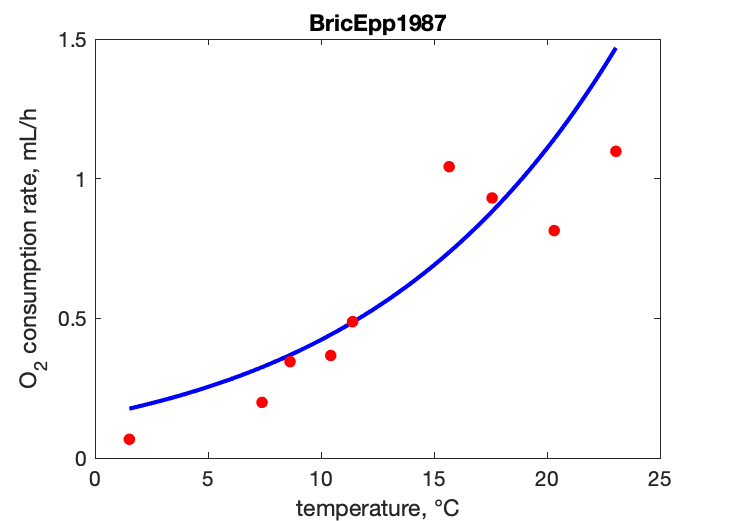
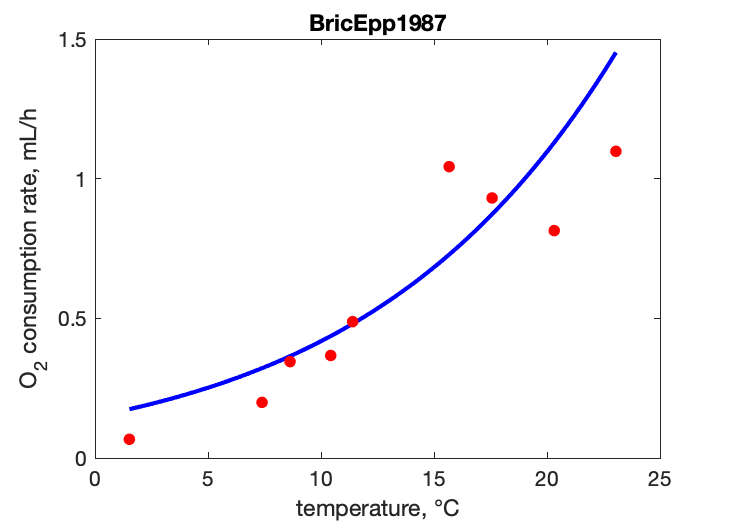
added dry weight O2 consumption

diff --git a/Argopecten_irradians/Argopecten_irradians_res.html b/Argopecten_irradians/Argopecten_irradians_res.html
@@ -44,7 +44,7 @@
   </div>
 
   <div class="par">
-  <h4>COMPLETE = 2.5; MRE = 1901.084; SMSE =    0.760 </h4>
+  <h4>COMPLETE = 2.5; MRE = 2308.032; SMSE =    0.736 </h4>
   </div>
 
   <p class="clear"></p>
@@ -66,10 +66,9 @@
     <TR><TD>1.6</TD> <TD>0.0185</TD> <TD>0.9884</TD> <TD>Wdp</TD> <TD>g</TD> <TD>dry tissue weight at puberty</TD></TR>
     <TR><TD>5.3</TD> <TD>23.62</TD> <TD>3.456</TD> <TD>Wdi</TD> <TD>g</TD> <TD>ultimate dry tissue weight</TD></TR>
     <TR><TD>2094</TD> <TD>6.763e+07</TD> <TD>3.229e+04</TD> <TD>Ri</TD> <TD>#/d</TD> <TD>maximum reprod rate</TD></TR>
-    <TR><TD colspan="2">see figure</TD> <TD>1.362</TD> <TD>tL1</TD> <TD colspan="2">time since birth, <font color="blue"><i>vs.</i></font> Shell height</TD>
-    <TR><TD colspan="2">see figure</TD> <TD>2.345</TD> <TD>tL2</TD> <TD colspan="2">time since birth, <font color="blue"><i>vs.</i></font> Shell height</TD>
-    <TR><TD colspan="2">see figure</TD> <TD>4.977</TD> <TD>tL3</TD> <TD colspan="2">time since birth, <font color="blue"><i>vs.</i></font> Shell height</TD>
-    <TR><TD colspan="2">see figure</TD> <TD>0.2597</TD> <TD>TJO</TD> <TD colspan="2">temperature, <font color="blue"><i>vs.</i></font> O_2 consumption rate</TD>
+    <TR><TD colspan="2">see figure</TD> <TD>2.384</TD> <TD>tL1</TD> <TD colspan="2">time since start of study, <font color="blue"><i>vs.</i></font> Shell height</TD>
+    <TR><TD colspan="2">see figure</TD> <TD>2.291</TD> <TD>tL2</TD> <TD colspan="2">Time since birth, <font color="blue"><i>vs.</i></font> Shell height</TD>
+    <TR><TD colspan="2">see figure</TD> <TD>0.2558</TD> <TD>TJO</TD> <TD colspan="2">temperature, <font color="blue"><i>vs.</i></font> O_2 consumption rate</TD>
     <TR class="psd"><TD>0.02</TD> <TD>0.03876</TD> <TD>0.938</TD> <TD>psd.v</TD> <TD>cm/d</TD> <TD>energy conductance</TD></TR>
     <TR class="psd"><TD>0.8</TD> <TD>0.8</TD> <TD>  0</TD> <TD>psd.kap</TD> <TD>-</TD> <TD>allocation fraction to soma</TD></TR>
     <TR class="psd"><TD>0.95</TD> <TD>0.95</TD> <TD>  0</TD> <TD>psd.kap_R</TD> <TD>-</TD> <TD>reproduction efficiency</TD></TR>
@@ -103,13 +102,13 @@
     <TR><TD>T_A</TD> <TD>K</TD> <TD>8000</TD> <TD>0</TD> <TD>Arrhenius temperature</TD></TR>
     <TR><TD>del_M</TD> <TD>-</TD> <TD>0.1696</TD> <TD>1</TD> <TD>shape coefficient</TD></TR>
     <TR><TD>Wd0</TD> <TD>g</TD> <TD>  1</TD> <TD>0</TD> <TD>dry weight for TJO data</TD></TR>
-    <TR><TD>Lw_0</TD> <TD>cm</TD> <TD>1.258</TD> <TD>0</TD> <TD>initial shell height for tL1 and tL2 data</TD></TR>
+    <TR><TD>Lw_0_tL1</TD> <TD>cm</TD> <TD>1.44</TD> <TD>0</TD> <TD>initial shell height for tL1 and tL2 data</TD></TR>
+    <TR><TD>Lw_0_tL2</TD> <TD>cm</TD> <TD>1.04</TD> <TD>0</TD> <TD>initial shell height for tL1 and tL2 data</TD></TR>
     <TR><TD>f</TD> <TD>-</TD> <TD>  1</TD> <TD>0</TD> <TD>scaled functional response for 0-var data</TD></TR>
     <TR><TD>del_Mb</TD> <TD>-</TD> <TD>0.2626</TD> <TD>1</TD> <TD>shape coefficient before metamorphosis</TD></TR>
-    <TR><TD>f_tL1</TD> <TD>-</TD> <TD>0.4</TD> <TD>1</TD> <TD>scaled functional response for upper river DRE</TD></TR>
-    <TR><TD>f_tL2</TD> <TD>-</TD> <TD>0.6</TD> <TD>1</TD> <TD>scaled functional response for lower river DRE</TD></TR>
-    <TR><TD>f_tL3</TD> <TD>-</TD> <TD>0.6</TD> <TD>1</TD> <TD>scaled functional response for Tampa Bay</TD></TR>
-    <TR><TD>f_TJO</TD> <TD>-</TD> <TD>0.6</TD> <TD>1</TD> <TD>scaled functional response for TJO</TD></TR>
+    <TR><TD>f_tL1</TD> <TD>-</TD> <TD>0.5</TD> <TD>1</TD> <TD>scaled functional response for Virginia</TD></TR>
+    <TR><TD>f_tL2</TD> <TD>-</TD> <TD>0.5</TD> <TD>1</TD> <TD>scaled functional response for Florida</TD></TR>
+    <TR><TD>f_TJO</TD> <TD>-</TD> <TD>0.5</TD> <TD>1</TD> <TD>scaled functional response for Florida</TD></TR>
   </TABLE>
   </div>
 

diff --git a/Argopecten_irradians/predict_Argopecten_irradians.m b/Argopecten_irradians/predict_Argopecten_irradians.m
@@ -8,20 +8,7 @@ function [prdData, info] = predict_Argopecten_irradians(par, data, auxData)
   
   %% Syntax
   % [prdData, info] = <../predict_my_pet.m *predict_my_pet*>(par, data, auxData)
-  
-  %% Description
-  % Obtains predictions, using parameters and data
-  %
-  % Input
-  %
-  % * par: structure with parameters (see below)
-  % * data: structure with data (not all elements are used)
-  % * auxData : structure with temp data and other potential environmental data
-  %  
-  % Output
-  %
-  % * prdData: structure with predicted values for data
-  % * info: identified for correct setting of predictions (see remarks)
+
   
   %% Remarks
   % Template for use in add_my_pet.
@@ -36,11 +23,10 @@ function [prdData, info] = predict_Argopecten_irradians(par, data, auxData)
   cPar = parscomp_st(par); vars_pull(par); 
   vars_pull(cPar);  vars_pull(data);  vars_pull(auxData);
     
-filterChecks = ... % f contrained to not be larger than 1 or negeative
-                 f_TJO>1 || f_TJO < 0 || ... ; 
+  filterChecks = ... % f contrained to not be larger than 1 or negeative
                  f_tL1>1 || f_tL1 < 0 || ... ;
                  f_tL2>1 || f_tL2 < 0 || ... ;
-                 f_tL3 >1 || f_tL3 < 0;
+                 f_TJO >1 || f_TJO < 0;
    
 if filterChecks
    info    = 0;
@@ -55,111 +41,85 @@ end
   TC_ap  = tempcorr(temp.ap, T_ref, T_A);
   TC_am  = tempcorr(temp.am, T_ref, T_A);
   TC_Ri  = tempcorr(temp.Ri, T_ref, T_A);
-  TC_tL1 = tempcorr(temp.tL3, T_ref, T_A);
-  TC_tL2 = tempcorr(temp.tL3, T_ref, T_A);
-  TC_tL3 = tempcorr(temp.tL3, T_ref, T_A);
-  TC_TJO = tempcorr(C2K(TJO(:,1)), T_ref, T_A);
-  % TC_WJO = tempcorr(temp.WJO, T_ref, T_A);
+  TC_tL1 = tempcorr(temp.tL1, T_ref, T_A);
+  TC_tL2 = tempcorr(temp.tL2, T_ref, T_A);
+  TC_TJO   = tempcorr(C2K(TJO(:,1)), T_ref, T_A);
+  TC_WJO   = tempcorr(temp.WJO, T_ref, T_A);
+
 
 %% Zero-variate data
 
-% Life cycle - from Placopecten magellanicus code
- pars_tj = [g k l_T v_Hb v_Hj v_Hp];
- [t_j, t_p, t_b, l_j, l_p, l_b, l_i, ~, ~, info] = get_tj(pars_tj, f); % -, scaled times & lengths at f
+  % life cycle
+  pars_tj = [g k l_T v_Hb v_Hj v_Hp];
+  [t_j, t_p, t_b, l_j, l_p, l_b, l_i, rho_j, rho_B, info] = get_tj(pars_tj, f);
 
- % Birth
-L_b  = L_m * l_b;                 % cm, structural length at birth at f
-Lw_b = L_b / del_Mb;             % cm, physical length at birth at f
-Wd_b = L_b^3 * d_V * (1 + f * w); % g,  dry weight at birth at f (remove d_V for wet weight)
-aT_b = t_b / k_M / TC_ab;         % d,  age at birth at f and T
+  % Birth
+  L_b  = L_m * l_b;                 % cm, structural length at birth at f
+  Lw_b = L_b / del_Mb;             % cm, physical length at birth at f
+  Wd_b = L_b^3 * d_V * (1 + f * w); % g,  dry weight at birth at f (remove d_V for wet weight)
+  aT_b = t_b / k_M / TC_ab;         % d,  age at birth at f and T
 
- % Metamorphosis
-L_j  = L_m * l_j;                 % cm, structural length at metamorphosis at f
-Lw_j = L_j / del_Mb;             % cm, physical length at metamorphosis at f
-Wd_j = L_j^3 * d_V * (1 + f * w); % g,  dry weight at metamorphosis at f (remove d_V for wet weight)
-aT_j = t_j / k_M / TC_aj;         % d,  age at metamorphosis at f and T
+  % Metamorphosis
+  L_j  = L_m * l_j;                 % cm, structural length at metamorphosis at f
+  Lw_j = L_j / del_Mb;             % cm, physical length at metamorphosis at f
+  Wd_j = L_j^3 * d_V * (1 + f * w); % g,  dry weight at metamorphosis at f (remove d_V for wet weight)
+  aT_j = t_j / k_M / TC_aj;         % d,  age at metamorphosis at f and T
 
- % Puberty
-L_p  = L_m * l_p;                 % cm, structural length at puberty at f
-Lw_p = L_p / del_M;               % cm, physical length at puberty at f
-Wd_p = L_p^3 * d_V * (1 + f * w); % g,  dry weight at puberty (remove d_V for wet weight)
-aT_p = t_p / k_M / TC_ap;         % d,  age at puberty at f and T
+  % Puberty
+  L_p  = L_m * l_p;                 % cm, structural length at puberty at f
+  Lw_p = L_p / del_M;               % cm, physical length at puberty at f
+  Wd_p = L_p^3 * d_V * (1 + f * w); % g,  dry weight at puberty (remove d_V for wet weight)
+  aT_p = t_p / k_M / TC_ap;         % d,  age at puberty at f and T
 
- % Ultimate
-L_i  = L_m * l_i;                 % cm, ultimate structural length at f
-Lw_i = L_i / del_M;               % cm, ultimate physical length at f
-Wd_i = L_i^3 * d_V * (1 + f * w); % g,  ultimate dry weight (remove d_V for wet weight)
+  % Ultimate
+  L_i  = L_m * l_i;                 % cm, ultimate structural length at f
+  Lw_i = L_i / del_M;               % cm, ultimate physical length at f
+  Wd_i = L_i^3 * d_V * (1 + f * w); % g,  ultimate dry weight (remove d_V for wet weight)
 
- % Reproduction
-pars_R = [kap; kap_R; g; k_J; k_M; L_T; v; U_Hb; U_Hj; U_Hp]; % compose parameter vector at T
-RT_i   = TC_Ri * reprod_rate_j(L_i, f, pars_R);               % #/d, ultimate reproduction rate at T
+  % Reproduction
+  pars_R = [kap; kap_R; g; k_J; k_M; L_T; v; U_Hb; U_Hj; U_Hp]; % compose parameter vector at T
+  RT_i   = TC_Ri * reprod_rate_j(L_i, f, pars_R);               % #/d, ultimate reproduction rate at T
 
- % Life span
-pars_tm = [g; l_T; h_a / k_M^2; s_G]; % compose parameter vector at T_ref
-t_m     = get_tm_s(pars_tm, f, l_b);  % -, scaled mean life span at T_ref
-aT_m    = t_m / k_M / TC_am;          % d, mean life span at T
+  % Life span
+  pars_tm = [g; l_T; h_a / k_M^2; s_G]; % compose parameter vector at T_ref
+  t_m     = get_tm_s(pars_tm, f, l_b);  % -, scaled mean life span at T_ref
+  aT_m    = t_m / k_M / TC_am;          % d, mean life span at T
 
- % Pack to output
-prdData.ab  = aT_b;
-prdData.aj  = aT_j;
-prdData.ap  = aT_p;
-prdData.am  = aT_m;
-prdData.Lb  = Lw_b;
-prdData.Lj  = Lw_j;
-prdData.Lp  = Lw_p;
-prdData.Li  = Lw_i;
-prdData.Wdb = Wd_b;
-prdData.Wdj = Wd_j;
-prdData.Wdp = Wd_p;
-prdData.Wdi = Wd_i;
-prdData.Ri  = RT_i;
+  % Pack to output
+  prdData.ab  = aT_b;
+  prdData.aj  = aT_j;
+  prdData.ap  = aT_p;
+  prdData.am  = aT_m;
+  prdData.Lb  = Lw_b;
+  prdData.Lj  = Lw_j;
+  prdData.Lp  = Lw_p;
+  prdData.Li  = Lw_i;
+  prdData.Wdb = Wd_b;
+  prdData.Wdj = Wd_j;
+  prdData.Wdp = Wd_p;
+  prdData.Wdi = Wd_i;
+  prdData.Ri  = RT_i;
   
 %% uni-variate data
- 
-%   time-length for the lower damariscotta River (tL1)
-%   [t, L] = ode45(@get_L1, tL1(:,1), L_b, [], L_j, L_i, r_j, r_B, T_ref, T_A);
-%   ELw1 = L/ del_M; 
-  
-  [t_j, t_p, t_b, l_j, l_p, l_b, l_i, rho_j, rho_B] = get_tj(pars_tj, f_tL1);
-  r_B = rho_B * k_M; L_i = l_i * L_m; L_b = l_b * L_m; 
-  t_start = tL1(1,1);
-  [t, L] = ode45(@get_L1, [0; tL1(:,1)], L_b, [], r_B, L_i, T_ref, T_A, t_start); 
-  ELw1 = L(2:end)/ del_M;
-  
-% time-length for the upper damariscotta River (tL2)
-%   [t, L] = ode45(@get_L2, tL2(:,1), L_b, [], L_j, L_i, r_j, r_B, T_ref, T_A);
-%   ELw2 = L/ del_M; 
-  
-  [t_j, t_p, t_b, l_j, l_p, l_b, l_i, rho_j, rho_B] = get_tj(pars_tj, f_tL2);
-  r_B = rho_B * k_M; L_i = l_i * L_m; L_b = l_b * L_m;
-  t_start = tL2(1,1);
-  [t, L] = ode45(@get_L2, [0; tL2(:,1)], L_b, [], r_B, L_i, T_ref, T_A, t_start); 
-  ELw2 = L(2:end)/ del_M;
 
- 
-  % Time vs. shell length in Tampa Bay
-  f = f_tL3; TC = TC_tL3; tL = tL3;
-  [t_j, ~, t_b, l_j, ~, l_b, l_i, rho_j, rho_B] = get_tj(pars_tj, f);
-  rT_j = TC * rho_j * k_M; rT_B = TC * rho_B * k_M;
-  L_b  = l_b * L_m; L_j = l_j * L_m; L_i = l_i * L_m;
-  tT_j = (t_j - t_b) / k_M / TC;                                   % d,   time since birth at metamorphosis
-  t_bj = tL(tL(:,1) < tT_j,1);                                     % d,   select times before metamorphosis
-  L_bj = (L_b * exp(t_bj * rT_j / 3)) / del_Mb;                    % cm,  physical length at exponential growth as V1-morph
-  t_ji = tL(tL(:,1) >= tT_j,1);                                    % d,   select times after metamorphosis
-  L_ji = (L_i - (L_i - L_j) * exp(-rT_B * (t_ji - tT_j))) / del_M; % cm,  physical length at isomorphic growth
-  ELw3  = [L_bj; L_ji];                                             % cm,  expected physical length at time
-
-  % Shell length vs. tissue dry weight From Connecticut 
-  % f   = f_LWd;
-  % EWd = (LWd(:,1) * del_M).^3 * (1 + w * f) * d_V; % g, expected dry weight
- 
-  % Code for oxygen consumption data from the AmP Placopecten magellanicus entry
+  % Dugg1971
+  % 25 Deg. - No known food
+  % assuming that metamorphosis is passed (juvenile individuals) so we consider von Bertalanffy growth
+  kT_M = k_M * TC_tL1;  rT_B = rho_B * kT_M; 
+  L_0  = Lw_0_tL1 * del_M; 
+  ELw1 = (L_i - (L_i - L_0) * exp( - rT_B * tL1(:,1)))/ del_M;   % cm, Shell length
+  
+  % BricKrau1992
+  % assuming that metamorphosis is passed (juvenile individuals) so we consider von Bertalanffy growth
+  kT_M = k_M * TC_tL2;  rT_B = rho_B * kT_M; 
+  L_0  = Lw_0_tL2 * del_M; 
+  ELw2 = (L_i - (L_i - L_0) * exp( - rT_B * tL2(:,1)))/ del_M;   % cm, Shell length
   
   % Compute parameters for oxygen consumption rate predictions
   p_ref  = p_Am * L_m^2; % J/d, max assimilation power at max size and T_ref
   pars_p = [kap; kap_R; g; k_J; k_M; L_T; v; U_Hb; U_Hj; U_Hp];
-   
-  % Temperature vs. oxygen consumption rate
+  
+   % Temperature vs. oxygen consumption rate
   f = f_TJO; W = Wd0;
   [~, ~, ~, l_j, l_p, l_b, ~, ~, ~] = get_tj(pars_tj, f);
   L        = (W / d_V / (1 + f * w)).^(1/3);
@@ -168,43 +128,23 @@ prdData.Ri  = RT_i;
   J_O      = eta_O * pADG;                             % mol/d,  fluxes of organics J_X, J_V, J_E, J_P in rows
   J_M      = -n_M \ n_O * J_O;                         % mol/d,  fluxes of minerals J_C, J_H, J_O, J_N in rows, A, D, G in cols
   ETJO     = -24.4e3 / 24 * J_M(3,:)' .* TC_TJO / Wd0; % mLO2/h, O2-consumption
-   
-  %  Dry weight vs. oxygen consumption rate
-  % f = f_WJO; TC = TC_WJO; W = WJO(:,1);
-  % [~, ~, ~, l_j, l_p, l_b, ~, ~, ~] = get_tj(pars_tj, f);
-  % L        = (W / d_V / (1 + f * w)).^(1/3);
-  % pACSJGRD = TC * p_ref * scaled_power_j(L, f, pars_p, l_b, l_j, l_p);
-  % pADG     = pACSJGRD(:,[1 7 5])';     % J/d,    assimilation, dissipation, growth power
-  % J_O      = eta_O * pADG;             % mol/d,  fluxes of organics J_X, J_V, J_E, J_P in rows
-  % J_M      = -n_M \ n_O * J_O;         % mol/d,  fluxes of minerals J_C, J_H, J_O, J_N in rows, A, D, G in cols
-  % EJO     = -24.4e3 / 24 * J_M(3,:)'; % mLO2/h, O2 consumption
   
-
+  % Dry weight vs. oxygen consumption rate at 1 °C
+  f = f_WJO; TC = TC_WJO; W = WJO(:,1);
+  [~, ~, ~, l_j, l_p, l_b, ~, ~, ~] = get_tj(pars_tj, f);
+  L        = (W / d_V / (1 + f * w)).^(1/3);
+  pACSJGRD = TC * p_ref * scaled_power_j(L, f, pars_p, l_b, l_j, l_p);
+  pADG     = pACSJGRD(:,[1 7 5])';     % J/d,    assimilation, dissipation, growth power
+  J_O      = eta_O * pADG;             % mol/d,  fluxes of organics J_X, J_V, J_E, J_P in rows
+  J_M      = -n_M \ n_O * J_O;         % mol/d,  fluxes of minerals J_C, J_H, J_O, J_N in rows, A, D, G in cols
+  EWJO     = -24.4e3 / 24 * J_M(3,:)'; % mLO2/h, O2 consumption
+  
+  
   % pack to output
   % the names of the fields in the structure must be the same as the data names in the mydata file
   prdData.tL1 = ELw1;
   prdData.tL2 = ELw2;
-  prdData.tL3 = ELw3;
-  % prdData.LWd = EWd;
   prdData.TJO = ETJO;
-  % prdData.WJO   = EWJO;
+  prdData.WJO = EWJO;
   
-end
-
-function dL = get_L1(t, L, r_B, L_i, T_ref, T_A, t_start)
-  if t < t_start
-      TC = tempcorr(C2K(20), T_ref, T_A);
-  else
-      TC = tempcorr(C2K(10+8*sin(2*pi*(t+50)/365)), T_ref, T_A);
-  end
-  dL = TC * r_B * (L_i - L);
-end
-
-function dL = get_L2(t, L, r_B, L_i, T_ref, T_A, t_start)
-  if t < t_start
-      TC = tempcorr(C2K(20), T_ref, T_A);
-  else
-  TC = tempcorr(C2K(12+10*sin(2*pi*(t+50)/365)), T_ref, T_A);
-  end
-  dL = TC * r_B * (L_i - L);
 end
